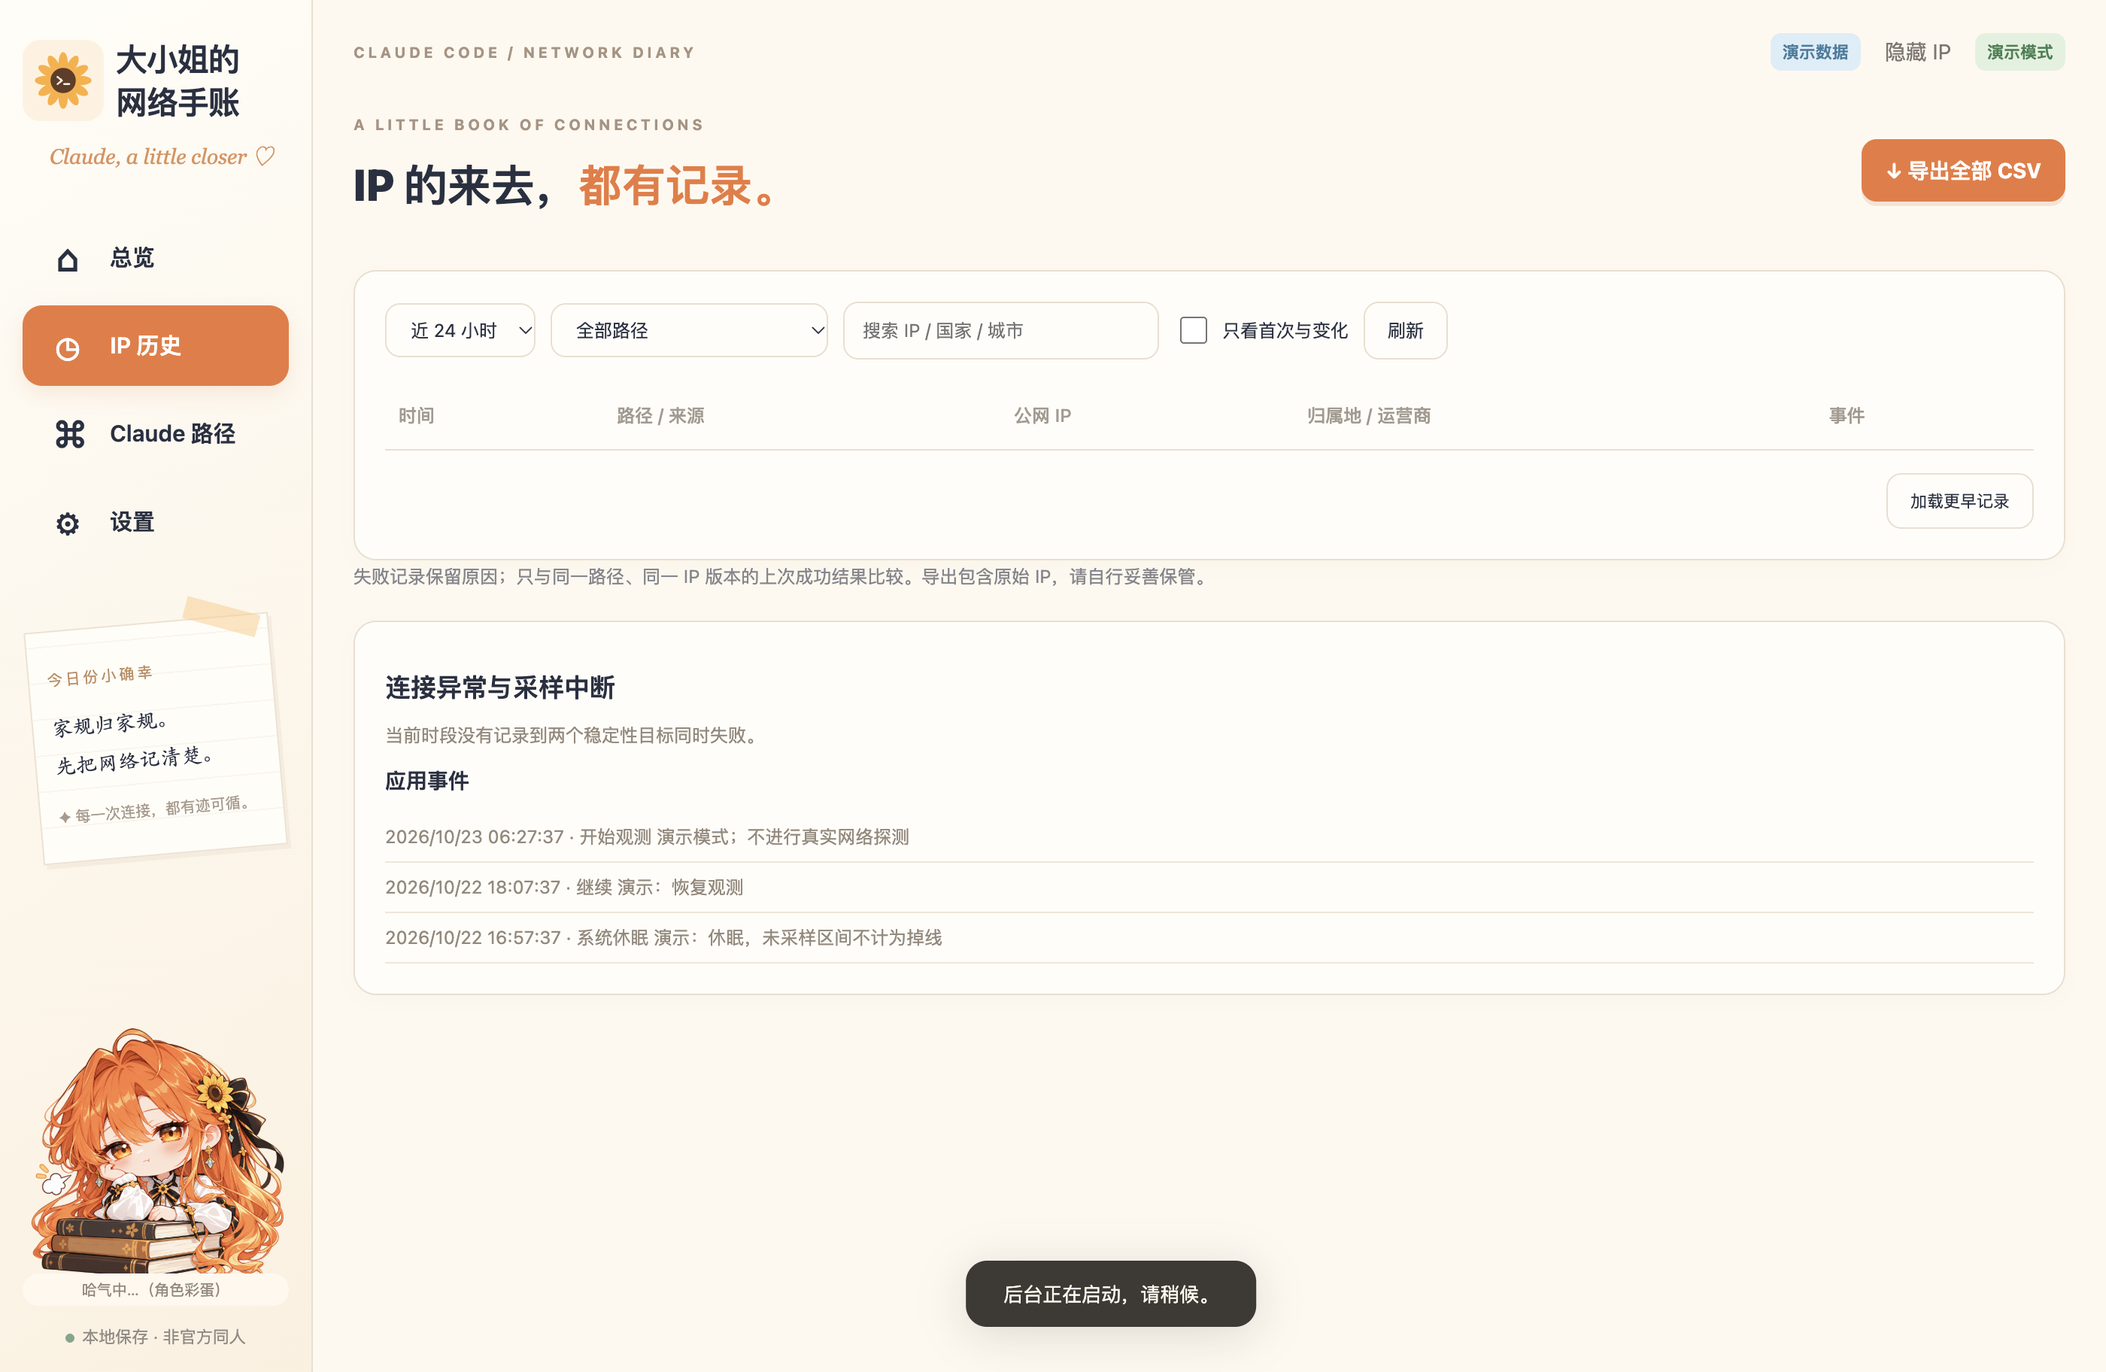
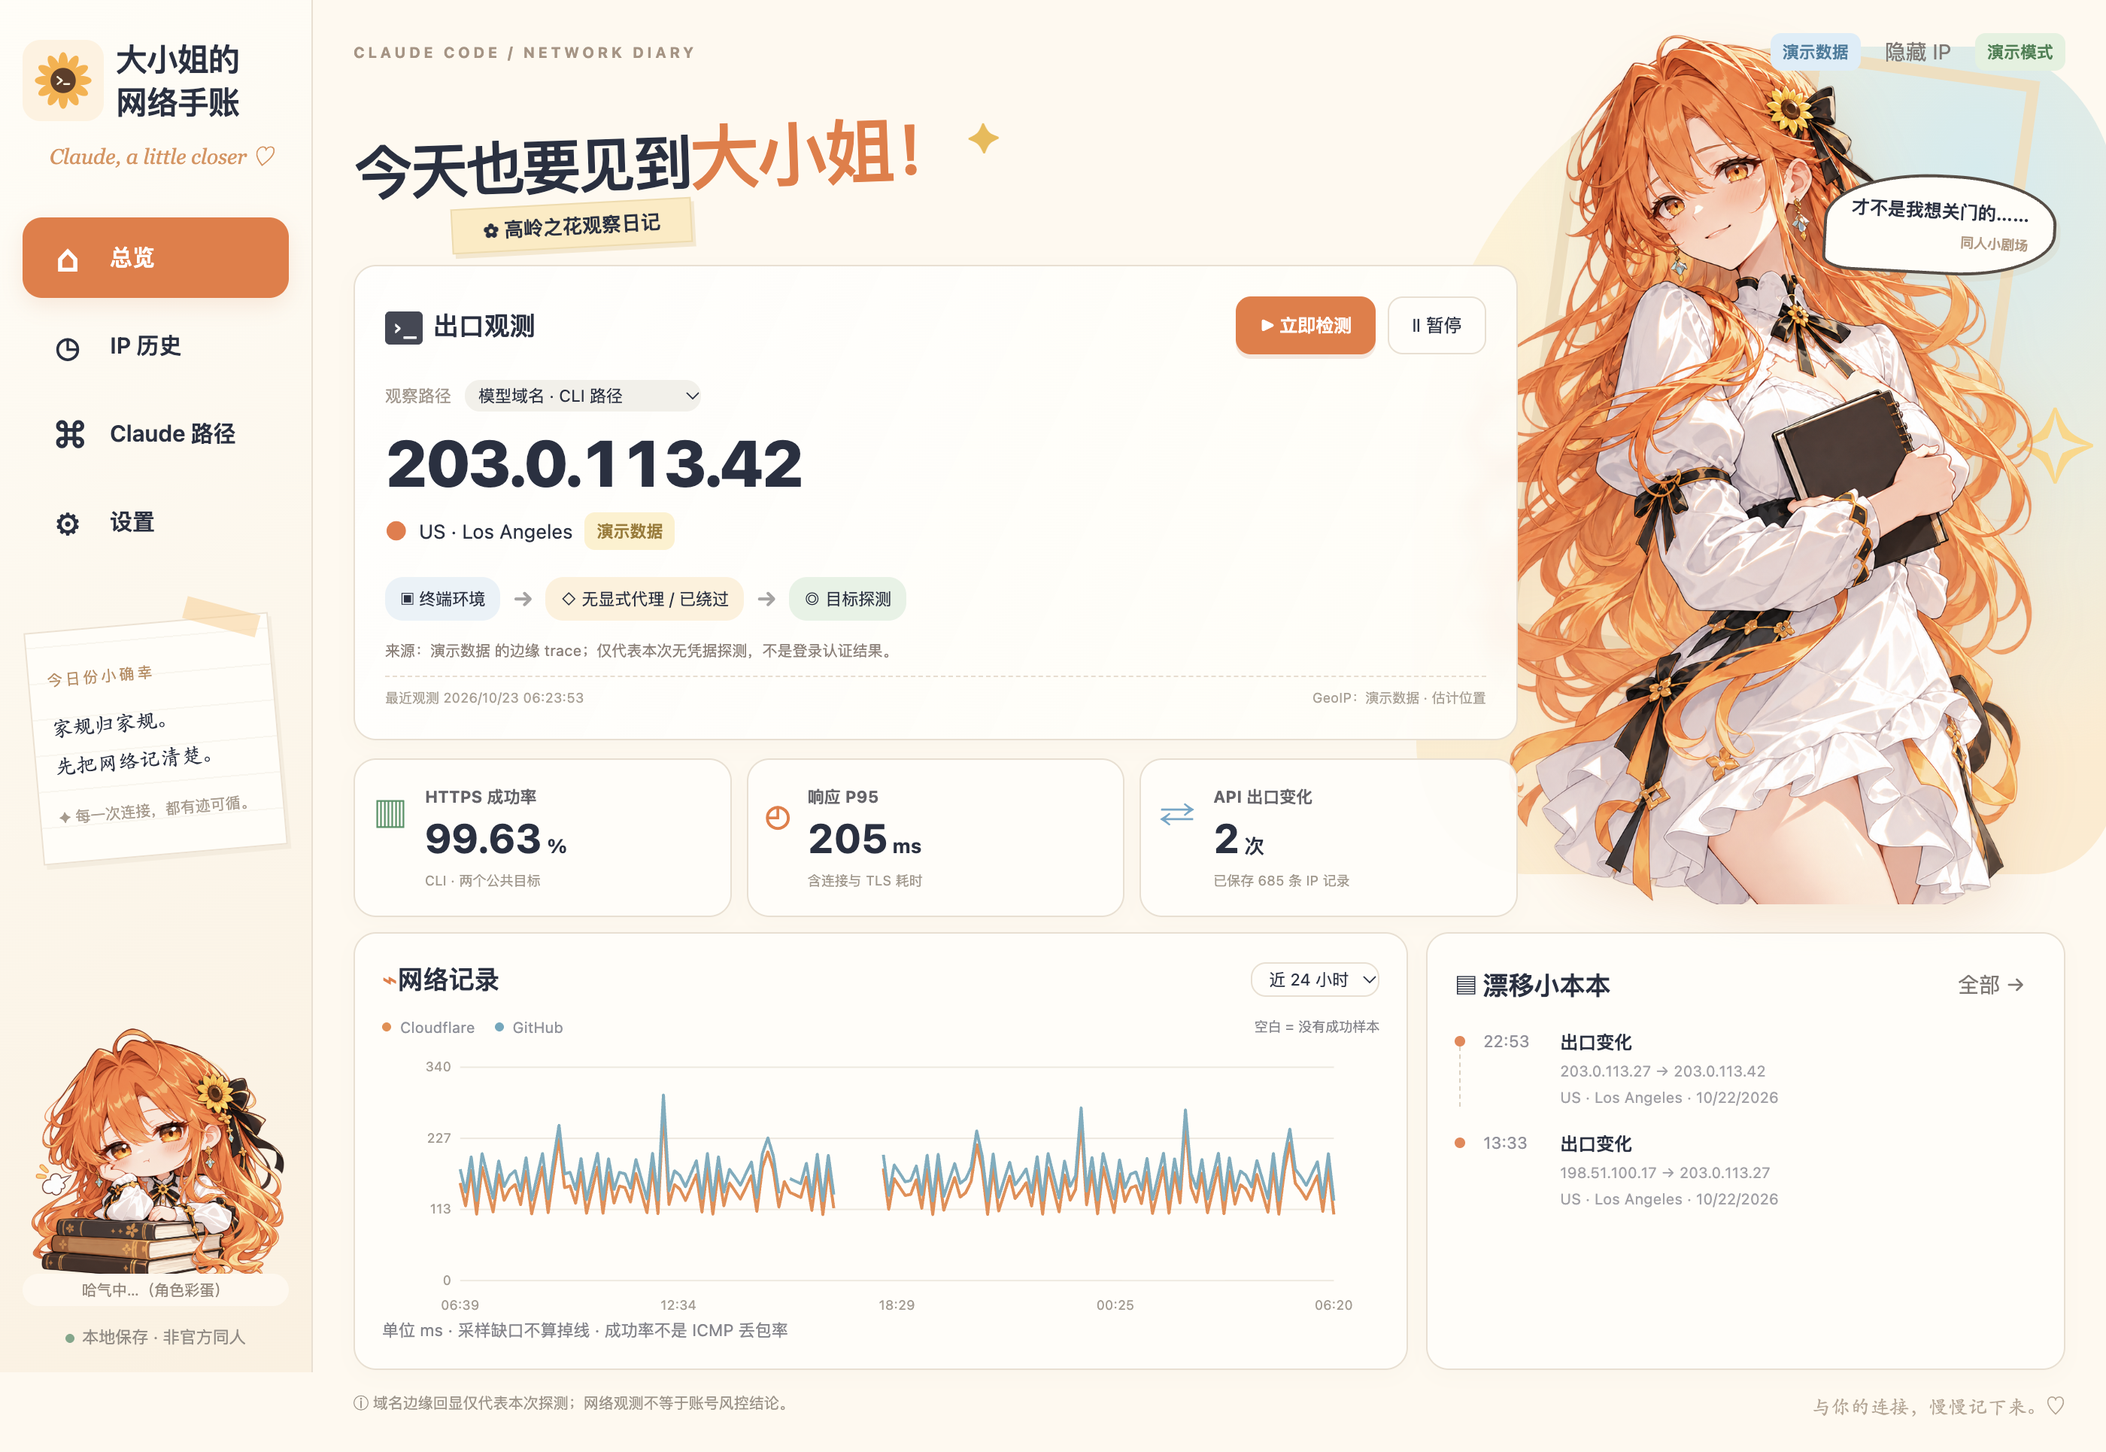
Show effective target routes when NO_PROXY bypasses a proxy

diff --git a/docs/设计与验证.html b/docs/设计与验证.html
@@ -1,1 +1,1 @@
-<!doctype html><html lang="zh-CN"><meta charset="utf-8"><title>大小姐的网络手账 · 设计与验证</title><style>body{max-width:1000px;margin:60px auto;background:#f7f3ec;color:#332b26;font:16px/1.8 system-ui}article{background:#fffaf3;padding:28px;border:1px solid #dfd6ca;border-radius:18px;margin:24px 0}img{width:100%}code{background:#efe6db;padding:3px 6px}a{color:#a3523a}</style><h1>大小姐的网络手账</h1><p>原创二次元大小姐主题 · Claude Code 网络路径观察 · 独立非官方应用</p><article id="design"><h2>设计基线</h2><p>左侧导航与托盘常驻；主区域展示当前出口、稳定性、IP 漂移时间线；右侧原创成年大小姐插画。奶油纸色、陶土橘、深咖文字和低饱和青绿状态色。图表与数据有独立语义和可访问标签。</p><p>CLI 网络环境与系统/浏览器路径分开展示。第三方回显仅说明该探测请求出口；真实认证/模型服务可能按域名走另一线路。401/403 是 HTTP 响应，不等于登录成功或账户可用。</p></article><article id="execution-ledger"><h2>执行台账</h2><p>NW-02 · 负责人：主代理 · 进行中 · 先产出效果图，再跨平台实现、测试与公开发布。旧数据保留。截图、构建与验证在完成时追加。</p></article><article><h2>视觉方案修订</h2><p>  NW-02 视觉修订（北京时间 2026-10-23T20:43:33+08:00）：用户认为初版过于正经且文案用梗不准，要求再生成明显二次元风格并先搜索社区。已检索LINUX DO原帖、B站作者/二创条目和贴吧话题；把橙发、温柔聪明、有距离感、严格原生家庭及哈气作为同人语境，不将社区猜测当作真实封号政策。V2采用橙发白裙的原创成年角色、赛璐璐动画立绘、漫画气泡、少量表情贴纸，真实测量与同人文案明确分开。保留V1为历史方案。来源：https://linux.do/t/topic/3010391 、https://linux.do/t/topic/2990653 、https://www.bilibili.com/video/BV1wtaH6jEk8/ 。 </p><p>初版：<a href="assets/concept.png">方案一</a>；V2进一步突出动画线稿/赛璐璐、橙发白裙与漫画表情。不复用第三方作者插画。</p></article><article id="implementation"><h2>NW-02 实现与验证 · 2026-10-23T21:16:27+08:00</h2><p>负责人：主代理。状态：进行中；macOS 本机实现和源应用验证阶段完成，公开发布与跨平台 CI 待验证。</p><p>技术栈：Electron 45 / Node 24 / 内置 SQLite；独立 utilityProcess，托盘单实例、关闭隐藏、可选启动项；无 Python 依赖。5 类观测路径、IP/GeoIP 历史、两目标 HTTPS 曲线、CSV、私有代理加密与终端环境白名单采集。</p><p>图稿顺序：<a href="assets/concept.png">V1 原方案</a> → <a href="assets/concept-v2.png">V2 二次元修订</a> → 下方真实应用演示截图。截图均仅含 RFC 5737 演示 IP，不是实测网络证明。</p><img src="assets/application-demo.png" alt="本轮 Electron 实际窗口，全部为演示数据"><p>验证：<code>npm test</code> 核心逻辑；<code>npm run test:ui</code> Electron 导航、筛选、IP 隐藏、设置、暂停/继续、关闭到托盘与恢复已通过；<code>npm run test:live</code> 只保留脱敏结论：IPv4/认证和 API 域名 trace 成功、IPv6 DNS 失败按失败记录、GeoJS 回退成功、SQLite integrity_check=ok。没有登录或模型调用。</p><p>测试中发现并修复：ESM 顶层等待 app.whenReady 导致启动死锁；改为异步启动函数。代理失败不直连回退、IPv6 规范化、缺少目标的批次不算整条线路掉线。UI 操作在本项目 Electron 窗口内自动化执行，不依赖外部 app 的 AX。</p><p>下一步：公开仓库，macOS Apple Silicon / Intel、Windows x64 CI 构建和打包后 UI 测试，通过后发布。真实重启启动项、整夜运行和物理设备休眠仍不在当前验收范围。</p></article><article><h2>NW-02 首轮 CI 修复</h2><p>负责人主代理，进行中。macOS arm64 源应用/打包后 UI 与构建通过。Windows 首轮失败在测试清理钩子：先删目录再关闭 SQLite，Windows 文件锁返回 EPERM；已调整为先关闭数据库后删除测试临时目录。Mac 安装包发现继承的链接器签名未封装资源，改用明确的 ad-hoc 签名并添加完整性验证；这不等于 Apple 公证。CI 截图改为只上传测试实际生成的文件，避免误用仓库旧截图。</p></article><article><h2>NW-02 三平台回归与小屏修订</h2><p>2026-10-23 北京时间 21:30，主代理，进行中。CI 39960308712 三平台逻辑/源应用/打包后窗口测试与构建全部通过。目视核查 Windows CI 截图时发现短窗口侧栏便签挤压底部头像，已在矮窗口隐藏装饰便签，保留导航、头像与本地存储提示；增加侧栏底部不越界的界面断言，再次构建验证此变更。</p></article></html>
+<!doctype html><html lang="zh-CN"><meta charset="utf-8"><title>大小姐的网络手账 · 设计与验证</title><style>body{max-width:1000px;margin:60px auto;background:#f7f3ec;color:#332b26;font:16px/1.8 system-ui}article{background:#fffaf3;padding:28px;border:1px solid #dfd6ca;border-radius:18px;margin:24px 0}img{width:100%}code{background:#efe6db;padding:3px 6px}a{color:#a3523a}</style><h1>大小姐的网络手账</h1><p>原创二次元大小姐主题 · Claude Code 网络路径观察 · 独立非官方应用</p><article id="design"><h2>设计基线</h2><p>左侧导航与托盘常驻；主区域展示当前出口、稳定性、IP 漂移时间线；右侧原创成年大小姐插画。奶油纸色、陶土橘、深咖文字和低饱和青绿状态色。图表与数据有独立语义和可访问标签。</p><p>CLI 网络环境与系统/浏览器路径分开展示。第三方回显仅说明该探测请求出口；真实认证/模型服务可能按域名走另一线路。401/403 是 HTTP 响应，不等于登录成功或账户可用。</p></article><article id="execution-ledger"><h2>执行台账</h2><p>NW-02 · 负责人：主代理 · 进行中 · 先产出效果图，再跨平台实现、测试与公开发布。旧数据保留。截图、构建与验证在完成时追加。</p></article><article><h2>视觉方案修订</h2><p>  NW-02 视觉修订（北京时间 2026-10-23T20:43:33+08:00）：用户认为初版过于正经且文案用梗不准，要求再生成明显二次元风格并先搜索社区。已检索LINUX DO原帖、B站作者/二创条目和贴吧话题；把橙发、温柔聪明、有距离感、严格原生家庭及哈气作为同人语境，不将社区猜测当作真实封号政策。V2采用橙发白裙的原创成年角色、赛璐璐动画立绘、漫画气泡、少量表情贴纸，真实测量与同人文案明确分开。保留V1为历史方案。来源：https://linux.do/t/topic/3010391 、https://linux.do/t/topic/2990653 、https://www.bilibili.com/video/BV1wtaH6jEk8/ 。 </p><p>初版：<a href="assets/concept.png">方案一</a>；V2进一步突出动画线稿/赛璐璐、橙发白裙与漫画表情。不复用第三方作者插画。</p></article><article id="implementation"><h2>NW-02 实现与验证 · 2026-10-23T21:16:27+08:00</h2><p>负责人：主代理。状态：进行中；macOS 本机实现和源应用验证阶段完成，公开发布与跨平台 CI 待验证。</p><p>技术栈：Electron 45 / Node 24 / 内置 SQLite；独立 utilityProcess，托盘单实例、关闭隐藏、可选启动项；无 Python 依赖。5 类观测路径、IP/GeoIP 历史、两目标 HTTPS 曲线、CSV、私有代理加密与终端环境白名单采集。</p><p>图稿顺序：<a href="assets/concept.png">V1 原方案</a> → <a href="assets/concept-v2.png">V2 二次元修订</a> → 下方真实应用演示截图。截图均仅含 RFC 5737 演示 IP，不是实测网络证明。</p><img src="assets/application-demo.png" alt="本轮 Electron 实际窗口，全部为演示数据"><p>验证：<code>npm test</code> 核心逻辑；<code>npm run test:ui</code> Electron 导航、筛选、IP 隐藏、设置、暂停/继续、关闭到托盘与恢复已通过；<code>npm run test:live</code> 只保留脱敏结论：IPv4/认证和 API 域名 trace 成功、IPv6 DNS 失败按失败记录、GeoJS 回退成功、SQLite integrity_check=ok。没有登录或模型调用。</p><p>测试中发现并修复：ESM 顶层等待 app.whenReady 导致启动死锁；改为异步启动函数。代理失败不直连回退、IPv6 规范化、缺少目标的批次不算整条线路掉线。UI 操作在本项目 Electron 窗口内自动化执行，不依赖外部 app 的 AX。</p><p>下一步：公开仓库，macOS Apple Silicon / Intel、Windows x64 CI 构建和打包后 UI 测试，通过后发布。真实重启启动项、整夜运行和物理设备休眠仍不在当前验收范围。</p></article><article><h2>NW-02 首轮 CI 修复</h2><p>负责人主代理，进行中。macOS arm64 源应用/打包后 UI 与构建通过。Windows 首轮失败在测试清理钩子：先删目录再关闭 SQLite，Windows 文件锁返回 EPERM；已调整为先关闭数据库后删除测试临时目录。Mac 安装包发现继承的链接器签名未封装资源，改用明确的 ad-hoc 签名并添加完整性验证；这不等于 Apple 公证。CI 截图改为只上传测试实际生成的文件，避免误用仓库旧截图。</p></article><article><h2>NW-02 三平台回归与小屏修订</h2><p>2026-10-23 北京时间 21:30，主代理，进行中。CI 39960308712 三平台逻辑/源应用/打包后窗口测试与构建全部通过。目视核查 Windows CI 截图时发现短窗口侧栏便签挤压底部头像，已在矮窗口隐藏装饰便签，保留导航、头像与本地存储提示；增加侧栏底部不越界的界面断言，再次构建验证此变更。</p></article><article><h2>NW-02 路径展示复核</h2><p>负责人主代理，进行中。最终复核修正概览流程图：NO_PROXY 命中时明确显示绕过显式代理；系统路由与系统浏览器近似不再沿用“终端环境”标签。新增对应测试，实际探测路由逻辑未改变。最终发布采用此修订并重新构建安装包。</p></article></html>

diff --git a/src/renderer/index.html b/src/renderer/index.html
@@ -17,7 +17,7 @@
       <div class="hero-data"><article class="card ip-card"><div class="card-heading"><h2><span class="terminal">›_</span>出口观测</h2><div class="actions"><button class="primary" id="sample">▶ 立即检测</button><button id="pause">Ⅱ 暂停</button></div></div>
         <label class="route-select"><span>观察路径</span><select id="hero-route"><option value="cli/api">模型域名 · CLI 路径</option><option value="cli/auth">认证域名 · CLI 路径</option><option value="browser/auth">认证域名 · 系统浏览器近似</option><option value="cli/echo">CLI 第三方回显 · IPv4</option><option value="system/echo">系统路由回显 · IPv4</option></select></label>
         <div class="ip-line" id="hero-ip">等待首次观测</div><div class="location"><span class="pin">●</span><span id="hero-location">获得有效 IP 后查询归属地</span><span id="hero-status" class="badge">等待数据</span></div>
-        <div class="flow"><span>▣ 终端环境</span><b>→</b><span id="proxy-chip">路由待确认</span><b>→</b><span>◎ 目标探测</span></div>
+        <div class="flow"><span id="flow-origin">▣ 终端环境</span><b>→</b><span id="proxy-chip">路由待确认</span><b>→</b><span>◎ 目标探测</span></div>
         <p class="evidence" id="hero-evidence">本机开始记录后才能查看历史。</p><div class="card-bottom"><span id="last-seen">—</span><span id="geo-source">GeoIP 仅为数据库估计</span></div>
       </article>
       <div class="stats"><article class="card stat"><div class="stat-icon green">▥</div><div><h3>HTTPS 成功率</h3><strong id="rate">—</strong><small>CLI · 两个公共目标</small></div></article><article class="card stat"><div class="stat-icon orange">◴</div><div><h3>响应 P95</h3><strong id="p95">—</strong><small>含连接与 TLS 耗时</small></div></article><article class="card stat"><div class="stat-icon blue">⇄</div><div><h3>API 出口变化</h3><strong id="changes">—</strong><small id="sample-count">等待记录</small></div></article></div>

diff --git a/test/core.test.js b/test/core.test.js
@@ -31,3 +31,5 @@ test('collector uses domain-specific routes and records evidence without account
 test('cancelled/suspended collection does not persist in-flight failures',async t=>{const {store}=fixture(t);await collect(store,{ipv6:false,valid:()=>false,fetcher:async()=>({ok:false,status:0,error:'offline'})});assert.equal(store.snapshot().count,0);assert.equal(store.snapshot().summaries.length,0);});
 test('IPv6 canonical spelling avoids phantom changes',()=>{assert.equal(publicIP('2001:db8:0:0:0:0:0:1'),publicIP('2001:db8::1'));assert.equal(parseTrace('h=claude.ai\nip=203.0.113.42\nts=not-a-time\nvisit_scheme=https','claude.ai'),null);});
 test('HTTP CONNECT proxy auth stays in the proxy request, with no direct retry',async()=>{let captured='',calls=0;const proxy=net.createServer(s=>{s.once('data',d=>{captured=d.toString();calls++;s.end('HTTP/1.1 407 Proxy Authentication Required\r\nContent-Length: 0\r\nConnection: close\r\n\r\n');});});await new Promise(r=>proxy.listen(0,'127.0.0.1',r));try{const result=await request('https://api.anthropic.com/cdn-cgi/trace',{proxy:`http://example-user:example-password@127.0.0.1:${proxy.address().port}`,timeout:1000});assert.equal(calls,1);assert.match(captured,/CONNECT api\.anthropic\.com:443/);assert.match(captured,/Proxy-Authorization: Basic /i);assert.ok(!JSON.stringify(result).includes('example-password'));assert.equal(result.status,407);}finally{await new Promise(r=>proxy.close(r));}});
+
+test('displayed route accounts for target-specific NO_PROXY bypass',()=>{const p=createProfile({HTTPS_PROXY:'http://localhost:7897',NO_PROXY:'.anthropic.com'});assert.equal(p.public.targetRoutes.api,'direct');assert.equal(p.public.targetRoutes.auth,'proxy');assert.equal(p.public.targetRoutes.echo,'proxy');});

diff --git a/src/renderer/app.js b/src/renderer/app.js
@@ -24,7 +24,11 @@ function render(){
   const s=state.status||{};const paused=config?.paused??s.paused;
   $('runtime').textContent=s.demo?'演示模式':paused?'已暂停':s.suspended?'已休眠':s.busy?'检测中…':'后台观测中';$('runtime').className='badge '+(paused?'wait':'good');
   $('pause').textContent=paused?'▶ 继续':'Ⅱ 暂停';$('sample').disabled=!!s.busy;
-  const r=latest($('hero-route').value),ok=r?.status==='ok';
+  const selectedRoute=$('hero-route').value;
+  const targetKey=selectedRoute.split('/')[1],effective=config?.profile?.targetRoutes?.[targetKey];
+  $('flow-origin').textContent=selectedRoute.startsWith('browser/')?'▣ 独立浏览器':selectedRoute.startsWith('system/')?'▣ 系统网络':'▣ 终端环境';
+  $('proxy-chip').textContent=selectedRoute.startsWith('browser/')?'◇ 系统自动代理':selectedRoute.startsWith('system/')?'◇ OS 路由 / TUN':effective==='invalid'?'⚠ 配置无效':effective==='proxy'?'◇ 显式代理':'◇ 无显式代理 / 已绕过';
+  const r=latest(selectedRoute),ok=r?.status==='ok';
   $('hero-ip').textContent=r?address(r.ip):'等待首次观测';$('hero-ip').classList.toggle('long',!r?.ip||r.ip.includes(':'));
   $('hero-location').textContent=ok?geo(r.geo):(r?.error||'开始记录后，这里会显示出口信息');
   const stale=r && Date.now()-r.time>Math.max((config?.interval||30)*3500,120000);
